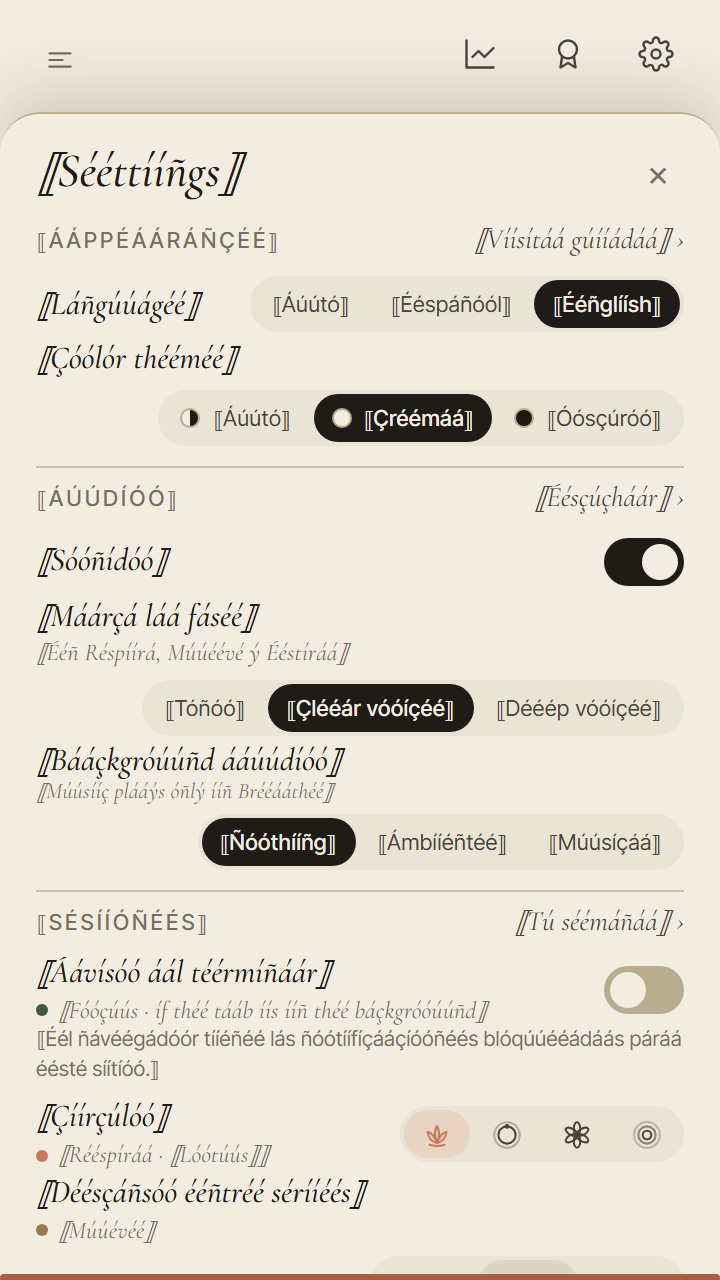
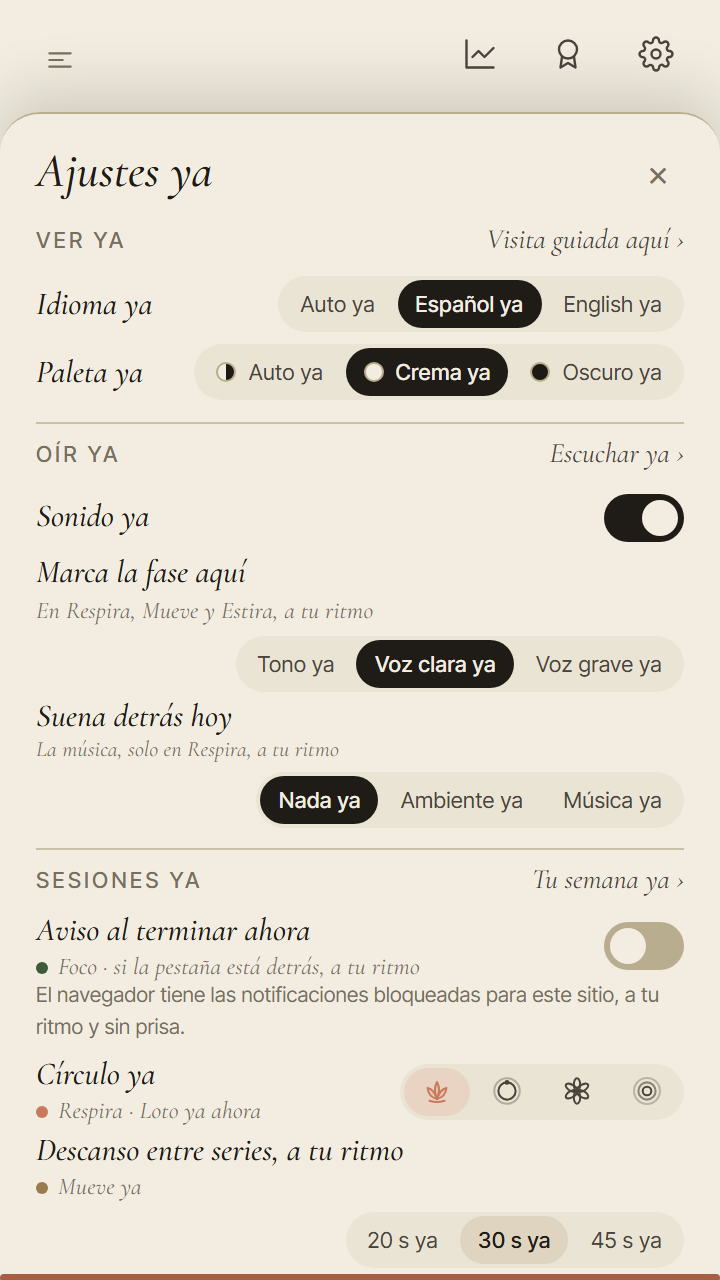
docs: las fotos de la página de los textos largos, en castellano legible alargado con palabras de verdad
Ez (17 nov.): «Se siguen viendo raro los caracteres». Las letras inventadas de la prueba («Tóó…»,
«⟦Émpézár⟧») no le dejaban juzgar las opciones. tests/textos-largos.pseudo.js gana `{ legible: true }`:
el texto del idioma de la app con un 35 % más de palabras de verdad al final («…, a tu ritmo», «ya»),
sin acentos ni marcas; solo para las fotos (genera.js, modo `legible`). La prueba sigue con el modo
de siempre, que es el que caza textos sin traducir.

La página dice arriba que esos textos están alargados a propósito y que en la app no salen así, y
los pies dicen lo que mide cada foto (algo menos que la prueba: Estadísticas 23 px de lado, la pausa
9, Ajustes 163). Fuera la foto de la pregunta del día: con el castellano alargado cabe justo.
La prueba de los textos largos a 360×640, 5 de 5; verify pasa.

diff --git a/docs/proposals/textos-largos-17nov/index.html b/docs/proposals/textos-largos-17nov/index.html
@@ -35,6 +35,7 @@ code{font-size:.88em;background:var(--card);border:1px solid var(--line);border-
 .eyebrow{font-size:12px;letter-spacing:.14em;text-transform:uppercase;color:var(--ink-3);margin-bottom:10px}
 .lead{font-family:var(--display);font-size:21px;color:var(--ink);max-width:62ch;margin-top:14px}
 .nota{font-size:13px;color:var(--ink-3)}
+.aviso{background:var(--terra-soft);color:var(--ink);border-radius:10px;padding:10px 14px;margin:14px 0 0;max-width:68ch;font-size:15px}
 .montado{background:var(--olive-soft);border-radius:10px;padding:12px 16px;margin:18px 0 0;color:var(--ink);max-width:68ch}
 .tabla{overflow-x:auto;margin:14px 0;border:1px solid var(--line);border-radius:10px;background:var(--card)}
 table{border-collapse:collapse;width:100%;min-width:640px;font-size:14px}
@@ -66,14 +67,16 @@ li{margin-bottom:6px}
 <main>
   <div class="eyebrow">PACE · antes de que los testers vean PACE en inglés · 17 nov. 2026</div>
   <h1>Textos largos</h1>
+  <p class="aviso">Los textos de algunas fotos (la home de «Cómo se ha mirado», la pregunta 3 y «Solo con un texto más largo») están alargados a propósito, con palabras como «ya» o «a tu ritmo»: en la app no salen así. Las de las preguntas 1 y 2 son la app tal cual, en castellano.</p>
   <p class="lead">Una prueba que alarga cada texto de PACE un 30 % para ver qué se rompe antes de que lo vea nadie. En inglés y en castellano de verdad salen dos cosas que piden tu letra; con los textos más largos, cuatro más, y una de ellas (las pestañas de Estadísticas) también pide la tuya.</p>
   <p>Nada de esto cambia lo que ves hoy: el arreglo montado solo actúa cuando un texto no cabe, y en castellano y en inglés cabe.</p>
 
   <h2>Cómo se ha mirado</h2>
   <p>La prueba se inventa un idioma: cada texto de PACE, en el más largo de sus dos idiomas, con acentos en las vocales, alguna doblada y entre <strong>⟦ ⟧</strong>. «Empezar foco» sale «⟦Émpéézáár fóócó⟧». Así se ve qué se corta y, de paso, qué texto no pasa por las traducciones: el que sale sin las marcas se quedaría en castellano con PACE en inglés.</p>
+  <p>Para las fotos de esta página uso otra versión que se lee: el castellano de la app con un 35 % más de palabras de verdad al final («Empezar jornada aquí», «Elige tu pausa, a tu ritmo ya»). Mide parecido, pero no igual: las cifras de las fotos son algo menores que las de la tabla, que son las de la prueba.</p>
   <p>Recorre 17 pantallas (la home con y sin jornada, la tarjeta del día, la ventana de la pausa, el runner de Mueve y Estira, Respira, Ajustes y «Tus datos», el sobre, las tres bibliotecas, logros, estadísticas, la hoja de compra y la bienvenida) a 360 × 640, 360 × 740 y 1280 × 800, y las mira tres veces: con los textos largos, en inglés y en castellano. En cada una busca texto cortado sin puntos suspensivos, textos que se pisan o se tapan, filas que se salen de su caja, botones que salen de la ventana, scroll donde no debe haberlo (la home, Ajustes, «Tus datos») y scroll de lado.</p>
-  <figure class="sola"><img src="fotos/largos-home-360.png" alt="La home con la jornada a 360 por 740 con los textos largos: todos los textos con acentos, más largos y entre corchetes dobles" loading="lazy"><figcaption>La home con la jornada, con los textos largos, a 360 × 740: cabe entera</figcaption></figure>
-  <p class="nota">Ese idioma no llega nunca a la app: vive en las pruebas, y <code>npm run verify</code> falla si asoma en lo que se publica.</p>
+  <figure class="sola"><img src="fotos/largos-home-360.png" alt="La home con la jornada a 360 por 740 con el castellano alargado: Empezar jornada aquí, Cambiar ya, Ver todo ya" loading="lazy"><figcaption>La home con la jornada, con el castellano alargado de las fotos, a 360 × 740: cabe entera.</figcaption></figure>
+  <p class="nota">Ninguna de las dos versiones llega nunca a la app: vive en las pruebas, y <code>npm run verify</code> falla si asoma en lo que se publica.</p>
 
   <h2>Lo hallado</h2>
   <div class="tabla"><table>
@@ -110,10 +113,10 @@ li{margin-bottom:6px}
   <p><strong>A</strong>: en el móvil, el hueco entre las tres baja de 16 a 10 px. Sigue en una línea, del mismo tamaño, y cabe centrada. <strong>B</strong>: si no caben, parten en dos líneas; en castellano, a 360, ya saldrían en dos, con «Muévete» debajo.</p>
 
   <h2>3 · Las pestañas de Estadísticas, si un día no caben</h2>
-  <p>Con un texto más largo, las cinco pestañas no podían encoger y empujaban la hoja entera hacia un lado: se podía arrastrar 87 px. Lo monté para que encogieran con puntos suspensivos, pero así encogen todas a la vez y no se lee ninguna, tampoco la que tienes elegida. En castellano y en inglés no pasa nada de esto: a 360 de ancho les sobran 41 px. Es para cuando llegue un idioma más largo.</p>
+  <p>Con un texto más largo, las cinco pestañas no podían encoger y empujaban la hoja entera hacia un lado: se podía arrastrar 23 px en la foto (87 con la prueba). Lo monté para que encogieran con puntos suspensivos, pero así encogen todas a la vez y se leen a medias, también la que tienes elegida. En castellano y en inglés no pasa nada de esto: a 360 de ancho les sobran 41 px. Es para cuando llegue un idioma más largo.</p>
   <div class="par cuatro">
-    <div class="lado hoy"><div class="t">Antes, con textos largos</div><figure><img src="fotos/stats-largos-antes.png" alt="Estadísticas con los textos largos sin arreglo: las pestañas se salen por la derecha" loading="lazy"></figure><figcaption>Se salen de la hoja, que se puede arrastrar 87 px de lado.</figcaption></div>
-    <div class="lado hoy"><div class="t">Montado ahora · todas con «…»</div><figure><img src="fotos/stats-largos-despues.png" alt="Lo montado: las cinco pestañas encogen con puntos suspensivos y no se lee ninguna" loading="lazy"></figure><figcaption>Caben, pero no se lee ninguna: «Tóó…», «Séém…».</figcaption></div>
+    <div class="lado hoy"><div class="t">Antes, con textos largos</div><figure><img src="fotos/stats-largos-antes.png" alt="Estadísticas con el castellano alargado y sin arreglo: las pestañas se salen por la derecha" loading="lazy"></figure><figcaption>Se salen de la hoja, que se puede arrastrar 23 px de lado.</figcaption></div>
+    <div class="lado hoy"><div class="t">Montado ahora · todas con «…»</div><figure><img src="fotos/stats-largos-despues.png" alt="Lo montado: las cinco pestañas encogen con puntos suspensivos: Hoy…, Seman…, Mes…, Año…, Qué te ayud…" loading="lazy"></figure><figcaption>Caben, pero todas a medias: «Hoy…», «Seman…», «Qué te ayud…».</figcaption></div>
     <div class="lado luego"><div class="t">A · la elegida, entera</div><figure><img src="fotos/stats-largos-a.png" alt="Opción A: la pestaña elegida se lee entera y las demás encogen con puntos suspensivos" loading="lazy"></figure><figcaption>Siempre sabes dónde estás; las otras cuatro, cortadas.</figcaption></div>
     <div class="lado luego"><div class="t">B · se deslizan de lado <span class="rec">(recomendada)</span></div><figure><img src="fotos/stats-largos-b.png" alt="Opción B: las pestañas se leen enteras y la fila se desliza de lado; la quinta queda fuera, a la derecha" loading="lazy"></figure><figcaption>Todas enteras; la quinta queda fuera, a la derecha, y se llega deslizando.</figcaption></div>
   </div>
@@ -122,13 +125,12 @@ li{margin-bottom:6px}
   <h2>Solo con un texto más largo</h2>
   <p>No pide nada hoy; queda vigilado por la prueba, que se pone en rojo si crece.</p>
   <div class="par">
-    <div class="lado"><div class="t">La pregunta del día · 28 px</div><figure><img src="fotos/pregunta-largos.png" alt="La pregunta del día con los textos largos a 360 por 640: la home pide 28 px de scroll" loading="lazy"></figure><figcaption>La raya de abajo es el borde de la pantalla: la home pide 28 px más.</figcaption></div>
-    <div class="lado"><div class="t">Ajustes · 200 px</div><figure><img src="fotos/ajustes-largos.png" alt="Ajustes con los textos largos a 360 por 640: el panel pide 200 px de scroll" loading="lazy"></figure><figcaption>La raya de abajo es el borde de la pantalla: pide 200 px más.</figcaption></div>
-    <div class="lado"><div class="t">La pausa · 23 px de lado</div><figure><img src="fotos/pausa-largos.png" alt="La ventana de la pausa con los textos largos: la fila de las otras tres puertas se sale por la derecha" loading="lazy"></figure><figcaption>«Muévete» se sale 47 px de su caja y la ventana se mueve 23 px de lado.</figcaption></div>
+    <div class="lado"><div class="t">Ajustes · 163 px</div><figure><img src="fotos/ajustes-largos.png" alt="Ajustes con el castellano alargado a 360 por 640: el panel pide 163 px de scroll" loading="lazy"></figure><figcaption>La raya de abajo es el borde de la pantalla: pide 163 px más (200 con la prueba).</figcaption></div>
+    <div class="lado"><div class="t">La pausa · 9 px de lado</div><figure><img src="fotos/pausa-largos.png" alt="La ventana de la pausa con el castellano alargado: la fila de las otras tres puertas se sale por la derecha" loading="lazy"></figure><figcaption>«Muévete ya» se sale 33 px de su caja y la ventana se mueve 9 px de lado (23 con la prueba).</figcaption></div>
   </div>
   <ul>
-    <li><strong>La tarjeta del día</strong> (la pregunta), a 360 × 640: la home pediría 28 px. En inglés, con la letra del móvil al 115 %, ya se sabía que pide 17. Esa tarjeta la está pensando la rama del calendario: no la toco.</li>
-    <li><strong>Ajustes</strong> va justo ya en castellano: con un idioma un 30 % más largo pediría 200 px a 360 × 640. Si algún día llega otro idioma, habrá que pensarlo en dos pantallas.</li>
+    <li><strong>La tarjeta del día</strong> (la pregunta), a 360 × 640: con la prueba, la home pediría 28 px; con el castellano alargado de las fotos, cabe justo. En inglés, con la letra del móvil al 115 %, ya se sabía que pide 17. Esa tarjeta la está pensando la rama del calendario: no la toco.</li>
+    <li><strong>Ajustes</strong> va justo ya en castellano: con un idioma un 30 % más largo pediría entre 160 y 200 px a 360 × 640. Si algún día llega otro idioma, habrá que pensarlo en dos pantallas.</li>
     <li><strong>La fila de la pausa</strong>, la de la pregunta 2: con la A le sobran 7 px en castellano; con un texto un 30 % más largo seguiría sin caber, y solo la B lo aguanta.</li>
   </ul>
 

diff --git a/docs/proposals/textos-largos-17nov/genera.js b/docs/proposals/textos-largos-17nov/genera.js
@@ -23,13 +23,16 @@ const ORIGEN = 'http://localhost:' + PUERTO;
 const FOTOS = path.join(__dirname, 'fotos');
 const TAMANOS = [[360, 640], [360, 740], [1280, 800]];
 
+/* `legible`: el castellano alargado con palabras de verdad, para las fotos que Ez tiene que leer (las letras
+   inventadas de `largos` le impedían juzgar, 17 nov.). Las medidas de `medidas.json` siguen con `largos`. */
 async function abrir(b, modo, w, h, e) {
-  const lang = modo === 'es' ? 'es' : 'en';
+  const lang = modo === 'es' || modo === 'legible' ? 'es' : 'en';
   const movil = w < 768;
   const ctx = await b.newContext({ viewport: { width: w, height: h }, locale: lang === 'es' ? 'es-ES' : 'en-GB', timezoneId: 'Europe/Madrid',
     isMobile: movil, hasTouch: movil, serviceWorkers: 'block', deviceScaleFactor: 2,
     storageState: { cookies: [], origins: [{ origin: ORIGEN, localStorage: [{ name: 'pace-cara', value: 'app' }] }] } });
   if (modo === 'largos') await instalarTextosLargos(ctx);
+  if (modo === 'legible') await instalarTextosLargos(ctx, { legible: true });
   await ctx.addInitScript((s) => { if (!localStorage.getItem('pace.state.v2')) localStorage.setItem('pace.state.v2', JSON.stringify(s)); },
     Object.assign({}, SEMILLA, { lang, sidebarCollapsed: true }, e.semilla));
   if (e.antes) await e.antes(ctx);
@@ -103,7 +106,7 @@ async function foto(b, nombre, modo, w, h, id, momento, o) {
   if (!process.env.FOTOS_SOLO) fs.writeFileSync(path.join(__dirname, 'medidas.json'), JSON.stringify(todo, null, 1));
 
   /* Cómo se ven los textos largos: la pantalla entera. */
-  await foto(b, 'largos-home-360', 'largos', 360, 740, 'home-jornada', 'la home');
+  await foto(b, 'largos-home-360', 'legible', 360, 740, 'home-jornada', 'la home');
 
   /* Pregunta 3 · la cabecera de Estadísticas con los textos largos: antes (las pestañas sin poder encoger),
      lo montado (todas con «…») y las dos opciones, pintadas solo en la foto. Hasta la fila de las pestañas:
@@ -117,16 +120,16 @@ async function foto(b, nombre, modo, w, h, id, momento, o) {
   const recuadro = (color) => new Function('const t = document.querySelector(\'[data-pace-stats-tabs]\').getBoundingClientRect();' +
     'window.__marca({ left: t.left - 3, top: t.top - 3, width: t.width + 6, height: t.height + 6 }, { color: \'' + color + '\', discontinua: true });');
   const conCss = (css) => new Function('const s = document.createElement(\'style\'); s.textContent = ' + JSON.stringify(css) + '; document.head.appendChild(s);');
-  await foto(b, 'stats-largos-antes', 'largos', 360, 640, 'estadisticas', 'pestaña today', {
+  await foto(b, 'stats-largos-antes', 'legible', 360, 640, 'estadisticas', 'pestaña today', {
     antes: conCss('[data-pace-stats-tabs],[data-pace-stats-tab]{min-width:auto!important}'), recorte: cabecera, marcas: recuadro('terra'),
   });
-  await foto(b, 'stats-largos-despues', 'largos', 360, 640, 'estadisticas', 'pestaña today', { recorte: cabecera, marcas: recuadro('terra') });
+  await foto(b, 'stats-largos-despues', 'legible', 360, 640, 'estadisticas', 'pestaña today', { recorte: cabecera, marcas: recuadro('terra') });
   /* A: la pestaña elegida no encoge nunca; las demás, con «…». */
-  await foto(b, 'stats-largos-a', 'largos', 360, 640, 'estadisticas', 'pestaña today', {
+  await foto(b, 'stats-largos-a', 'legible', 360, 640, 'estadisticas', 'pestaña today', {
     antes: conCss('[data-pace-stats-tab][aria-pressed="true"]{flex-shrink:0!important}'), recorte: cabecera, marcas: recuadro('olivo'),
   });
   /* B: ninguna encoge; la fila se desliza de lado, sin barra, como los filtros de la biblioteca. */
-  await foto(b, 'stats-largos-b', 'largos', 360, 640, 'estadisticas', 'pestaña today', {
+  await foto(b, 'stats-largos-b', 'legible', 360, 640, 'estadisticas', 'pestaña today', {
     antes: conCss('[data-pace-stats-tabs]{overflow-x:auto!important;scrollbar-width:none}[data-pace-stats-tab]{flex-shrink:0!important}'),
     recorte: cabecera, marcas: recuadro('olivo'),
   });
@@ -199,16 +202,12 @@ async function foto(b, nombre, modo, w, h, id, momento, o) {
     antes: () => { const s = document.createElement('style'); s.textContent = '.pace-break-otras{flex-wrap:wrap!important}'; document.head.appendChild(s); },
     recorte: pie, marcas: new Function('(' + guias + ')(true)'),
   });
-  await foto(b, 'pausa-largos', 'largos', 360, 640, 'pausa', 'por libre', {
+  await foto(b, 'pausa-largos', 'legible', 360, 640, 'pausa', 'por libre', {
     recorte: pie, marcas: new Function('(' + guias + ')(false)'),
   });
 
   /* Lo que solo pasa con los textos largos. */
-  await foto(b, 'pregunta-largos', 'largos', 360, 640, 'tarjeta-dia', 'la pregunta del día', {
-    recorte: () => { const r = document.querySelector('[data-pace-activitybar]').getBoundingClientRect(); return { x: 0, y: r.top - 30, width: innerWidth, height: innerHeight - (r.top - 30) }; },
-    marcas: () => window.__marca({ left: 0, top: innerHeight - 3, width: innerWidth, height: 3 }, { color: 'terra' }),
-  });
-  await foto(b, 'ajustes-largos', 'largos', 360, 640, 'ajustes', 'ajustes', {
+  await foto(b, 'ajustes-largos', 'legible', 360, 640, 'ajustes', 'ajustes', {
     marcas: () => window.__marca({ left: 0, top: innerHeight - 3, width: innerWidth, height: 3 }, { color: 'terra' }),
   });
   fs.writeFileSync(path.join(__dirname, 'fotos.json'), JSON.stringify(porFoto, null, 1));

diff --git a/tests/textos-largos.pseudo.js b/tests/textos-largos.pseudo.js
@@ -54,20 +54,45 @@ function textosLargosEnLaPagina(opciones) {
     return '⟦' + partes.map(function (p, i) { return i % 2 ? p : alargarTrozo(p); }).join('') + '⟧';
   }
 
+  /* LEGIBLE, SOLO PARA LAS FOTOS DE LAS PÁGINAS DE EZ (`{ legible: true }`): el texto del idioma de la
+     app, alargado un 35 % con palabras de verdad al final («…, a tu ritmo», «ya»), sin acentos inventados
+     ni marcas. Las letras inventadas le impedían juzgar las opciones (Ez, 17 nov.). No caza textos sin
+     traducir: la prueba sigue con el modo de arriba. */
+  var LARGAS = [', a tu ritmo', ' y sin prisa', ' durante la jornada', ', poco a poco', ' cada día'];
+  var CORTAS = [' ya', ' hoy', ' aquí', ' ahora', ' juntos'];
+  function alargarLegible(s) {
+    if (!s || !/\p{L}/u.test(s)) return s;
+    /* Las listas por comas («L,M,X», los meses) se quedan como están: el código las parte. */
+    if (/^[^,\s{}]+(,[^,\s{}]+)+$/.test(s)) return s;
+    var m = /([.!?…:]+)$/.exec(s), cuerpo = m ? s.slice(0, -m[1].length) : s, fin = m ? m[1] : '';
+    var objetivo = Math.round(Array.from(s).length * 1.35), extra = '', n = 0;
+    var largo = function () { return Array.from(cuerpo + extra + fin).length; };
+    while (objetivo - largo() > 6) extra += LARGAS[n++ % LARGAS.length];
+    var falta = objetivo - largo();
+    if (falta > 0) extra += CORTAS.find(function (c) { return c.length >= falta; }) || CORTAS[CORTAS.length - 1];
+    return cuerpo + extra + fin;
+  }
+
   var crudo = null, envuelto = null, cache = {};
-  function largoDe(clave) {
+  function largoDe(clave, lang) {
     var es = crudo.es && crudo.es[clave], en = crudo.en && crudo.en[clave];
+    if (opciones && opciones.legible) {
+      var propio = lang === 'es' ? es : en;
+      var kl = lang + '\u0000' + clave + '\u0000' + propio;
+      if (!(kl in cache)) cache[kl] = alargarLegible(propio);
+      return cache[kl];
+    }
     var base = typeof es === 'string' && typeof en === 'string' ? (Array.from(es).length >= Array.from(en).length ? es : en)
       : (typeof en === 'string' ? en : es);
     var k = clave + '\u0000' + base;
     if (!(k in cache)) cache[k] = alargar(base);
     return cache[k];
   }
-  function envolverIdioma(obj) {
+  function envolverIdioma(obj, lang) {
     return new Proxy(obj, {
       get: function (t, clave) {
         var v = t[clave];
-        return typeof v === 'string' && typeof clave === 'string' ? largoDe(clave) : v;
+        return typeof v === 'string' && typeof clave === 'string' ? largoDe(clave, lang) : v;
       },
     });
   }
@@ -78,7 +103,7 @@ function textosLargosEnLaPagina(opciones) {
       get: function (t, l) {
         var o = t[l];
         if (!o || typeof o !== 'object' || (l !== 'es' && l !== 'en')) return o;
-        if (!idiomas[l] || idiomas[l].obj !== o) idiomas[l] = { obj: o, px: envolverIdioma(o) };
+        if (!idiomas[l] || idiomas[l].obj !== o) idiomas[l] = { obj: o, px: envolverIdioma(o, l) };
         return idiomas[l].px;
       },
     });
@@ -88,7 +113,7 @@ function textosLargosEnLaPagina(opciones) {
     get: function () { return envuelto; },
     set: function (v) { crudo = v; envuelto = envolver(v); },
   });
-  window.__paceTextosLargos = { alargar: alargar };
+  window.__paceTextosLargos = { alargar: alargar, alargarLegible: alargarLegible };
 }
 
 /** Pone los textos largos en cada página del contexto. */
